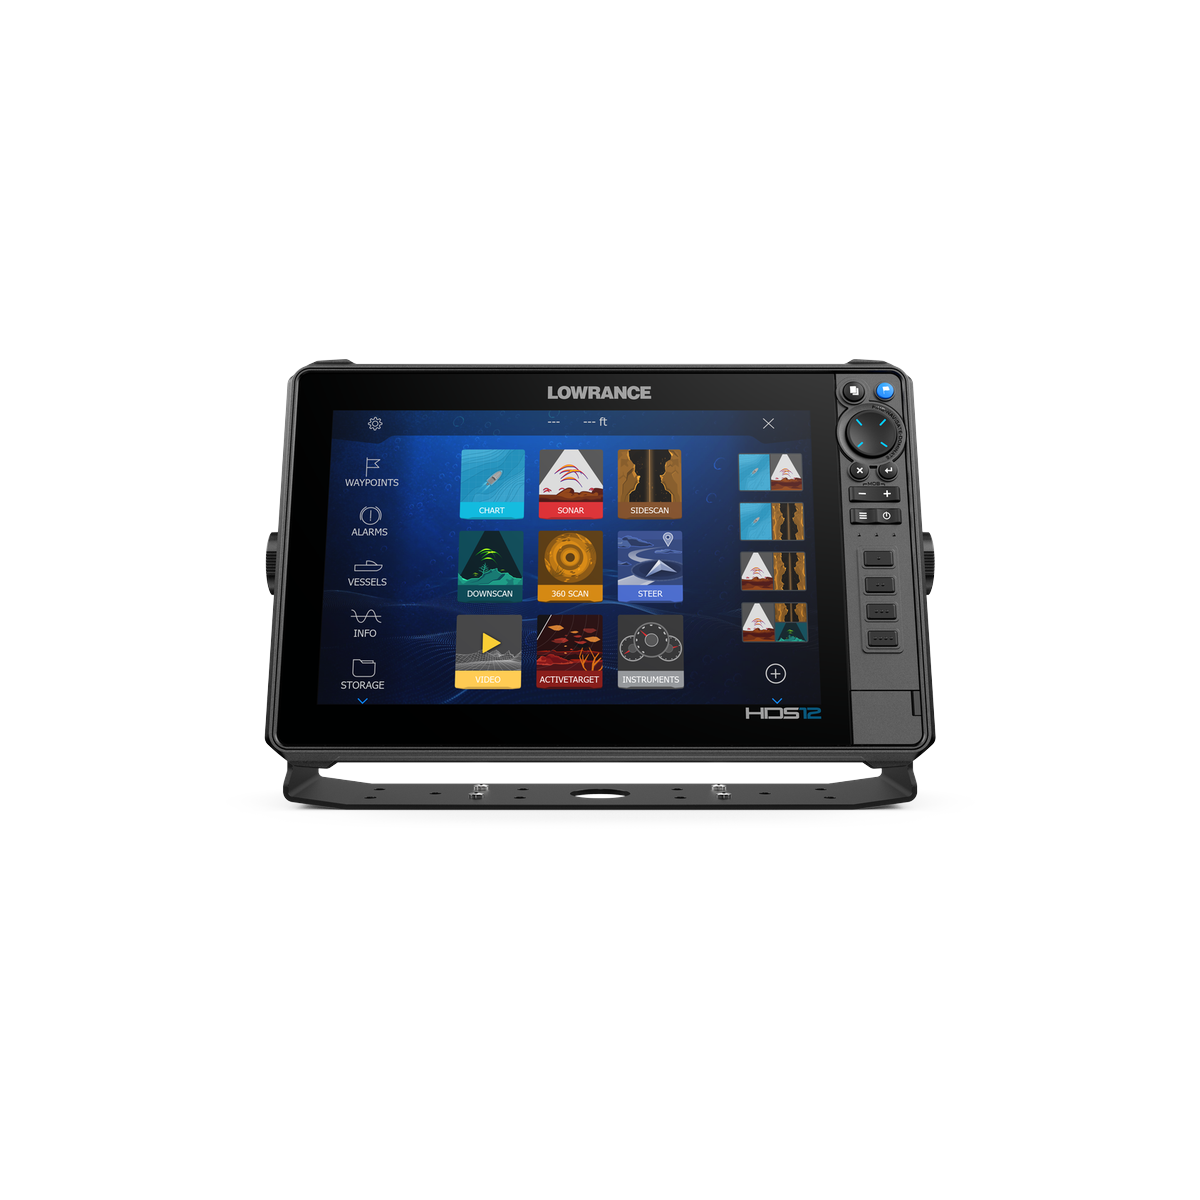
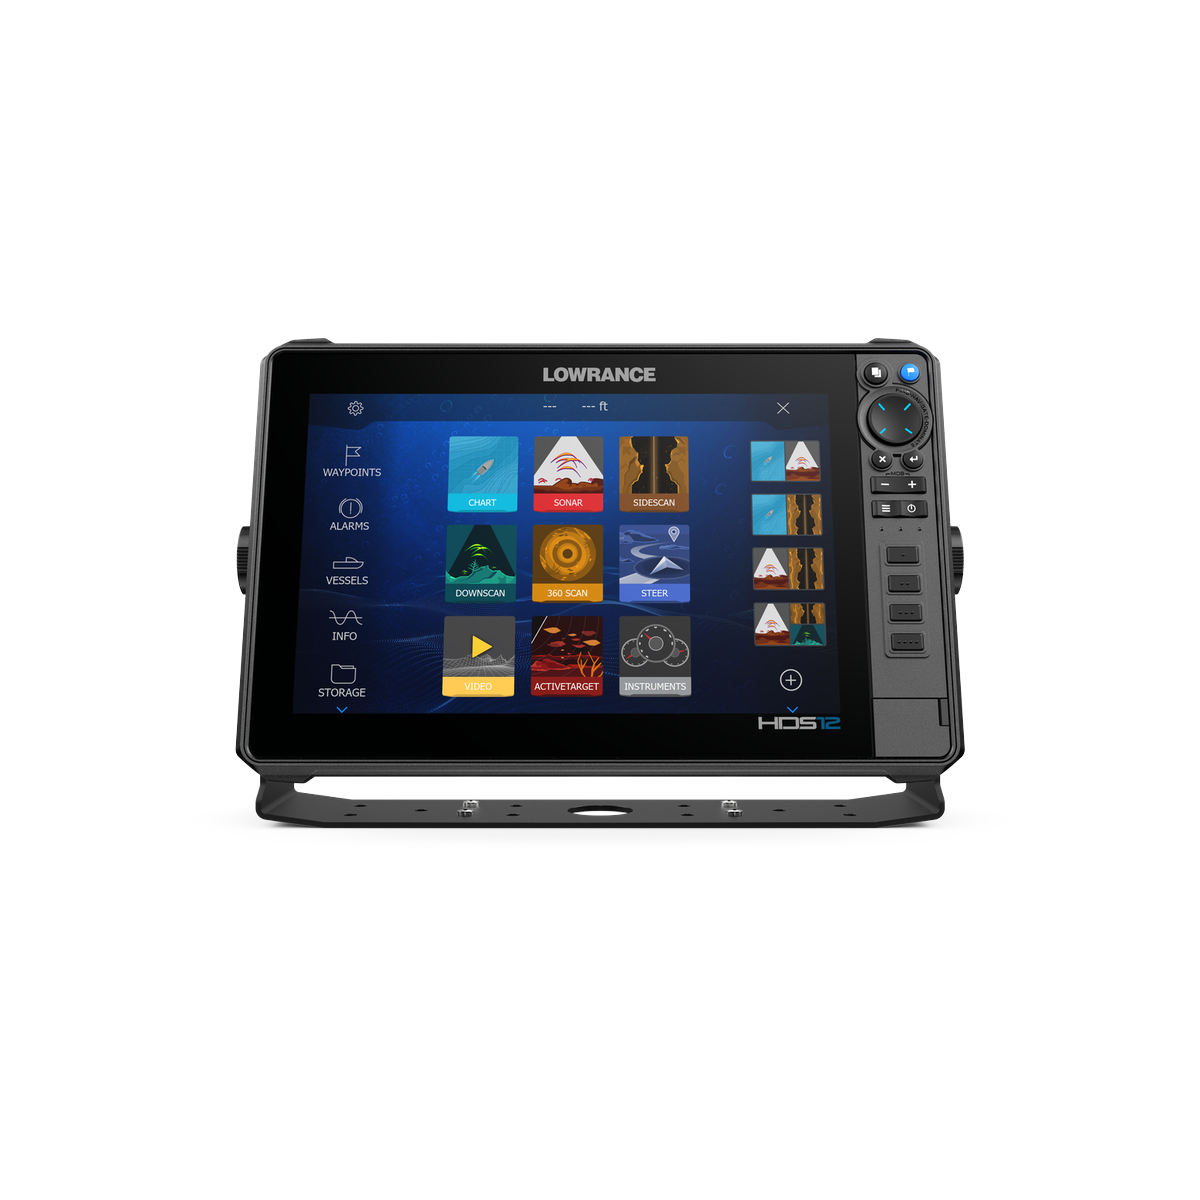
Enlarge Lowrance product photos while keeping proportional scale
Photos were normalized to a consistent, size-proportional scale but
ended up too small overall. Fill each device to its full canvas
(no baked-in margin) and trim the hero tile row's padding, so the
photos render noticeably bigger while the same size-9/10/12/16
relative proportions are preserved.

Changed region(s): [[0.185, 0.2775, 0.8017, 0.7092]]

diff --git a/src/app/[locale]/marques/[slug]/page.tsx b/src/app/[locale]/marques/[slug]/page.tsx
@@ -226,7 +226,7 @@ export default async function BrandPage({
                     src={tile.image}
                     alt={tile.title}
                     fill
-                    className="object-contain p-6 transition-transform duration-300 group-hover:scale-105"
+                    className="object-contain p-2 transition-transform duration-300 group-hover:scale-105"
                   />
                 </div>
                 <div className="mt-4">
